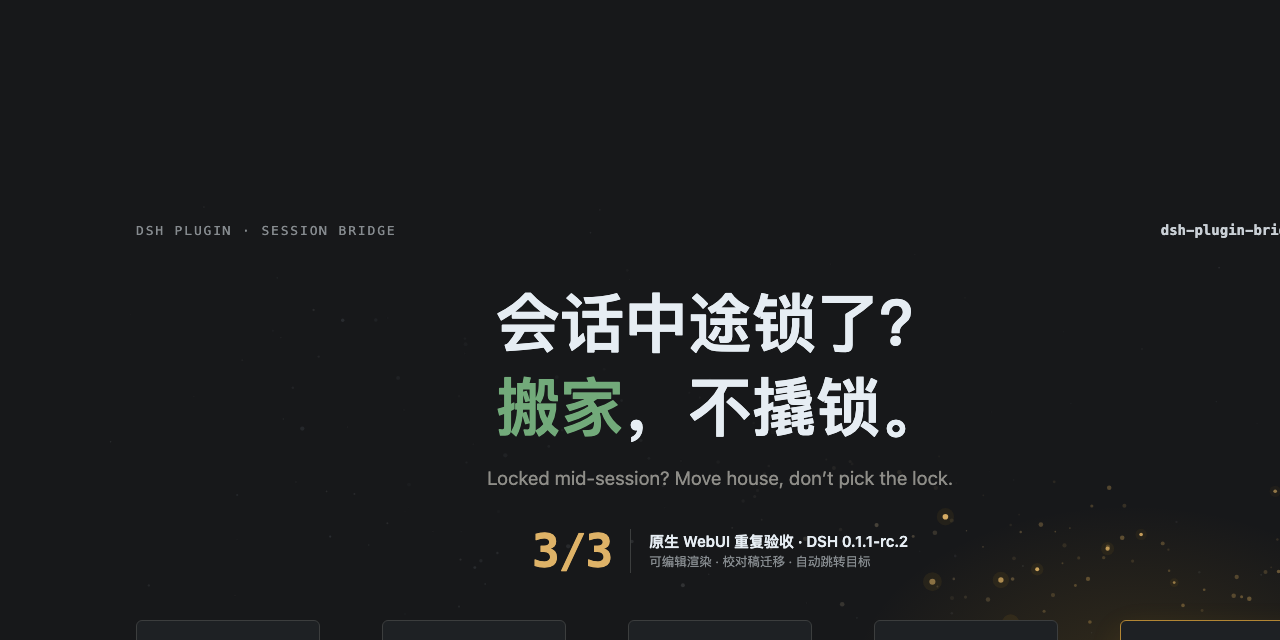
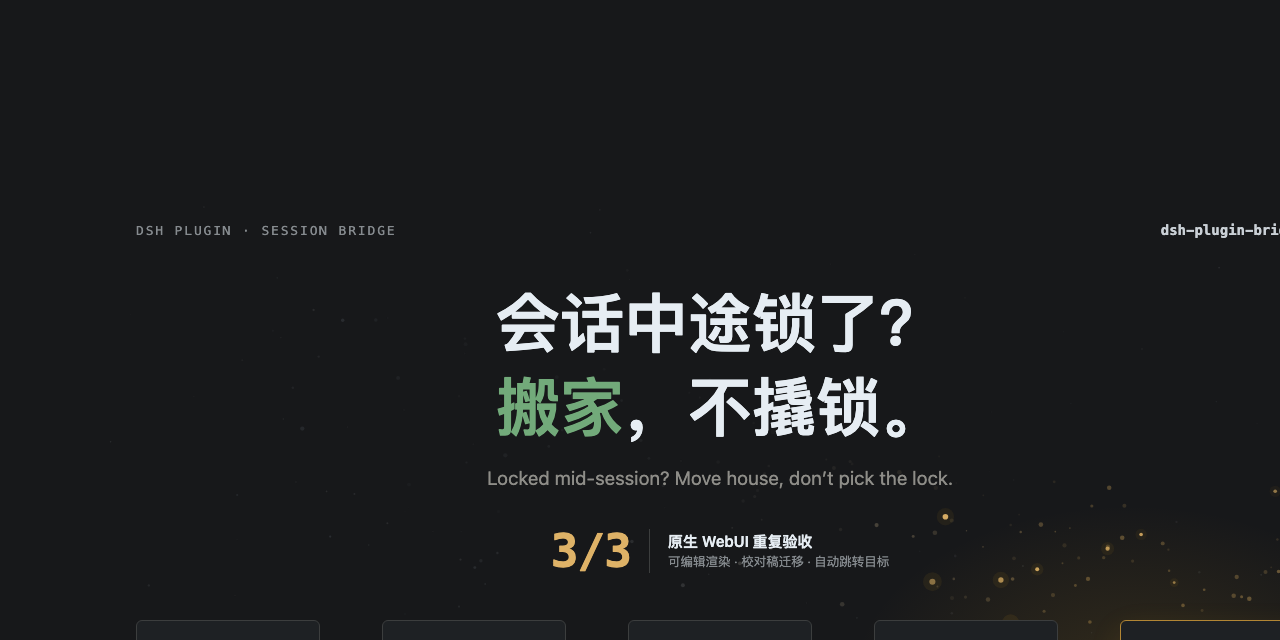
fix: remove version from cover artwork

Changed region(s): [[0.4062, 0.8125, 0.7188, 0.9062]]

diff --git a/assets/cover/dsh-bridge-cover-en.html b/assets/cover/dsh-bridge-cover-en.html
@@ -284,7 +284,7 @@ body {
       <span class="stat-num">3/3</span>
       <span class="stat-rule"></span>
       <span class="stat-label">
-        <span class="l1">native WebUI acceptance · DSH 0.1.1-rc.2</span><br>
+        <span class="l1">native WebUI acceptance</span><br>
         <span class="l2">Markdown / JSON edit · reviewed payload · auto-open target</span>
       </span>
     </div>

diff --git a/assets/cover/dsh-bridge-cover.html b/assets/cover/dsh-bridge-cover.html
@@ -318,7 +318,7 @@ body {
       <span class="stat-num">3/3</span>
       <span class="stat-rule"></span>
       <span class="stat-label">
-        <span class="l1">原生 WebUI 重复验收 · DSH 0.1.1-rc.2</span><br>
+        <span class="l1">原生 WebUI 重复验收</span><br>
         <span class="l2">可编辑渲染 · 校对稿迁移 · 自动跳转目标</span>
       </span>
     </div>
